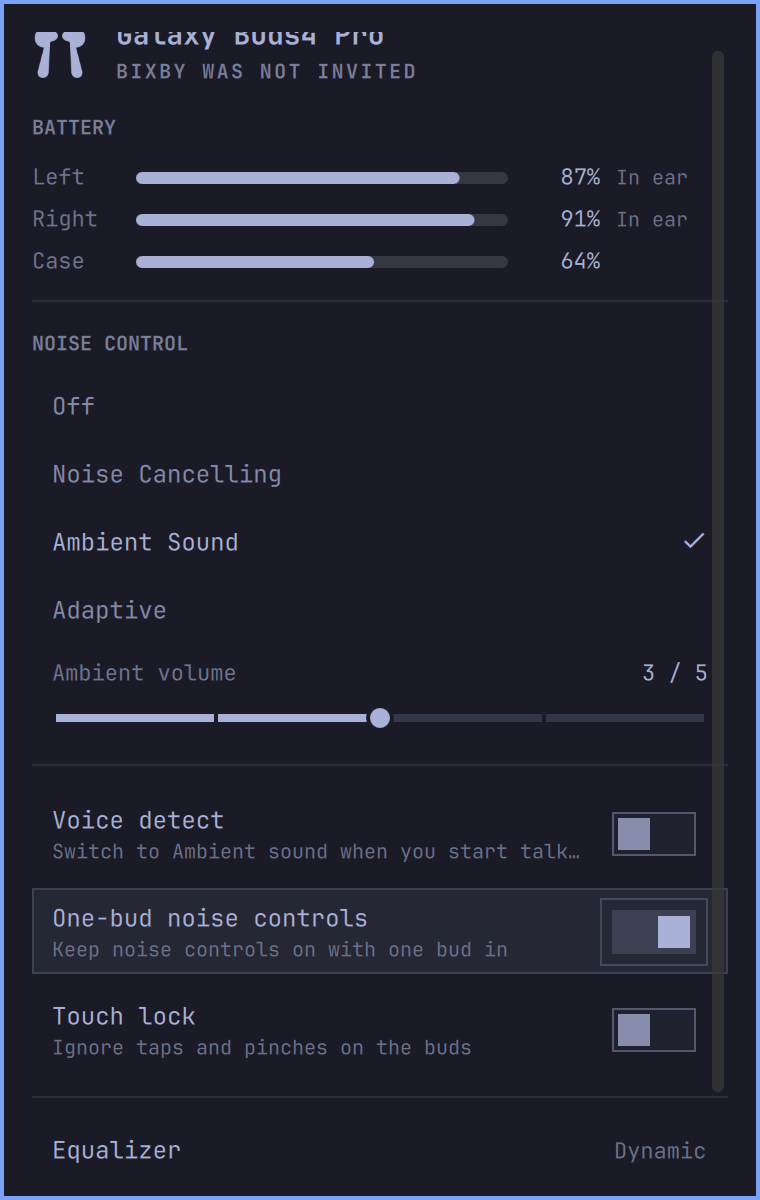
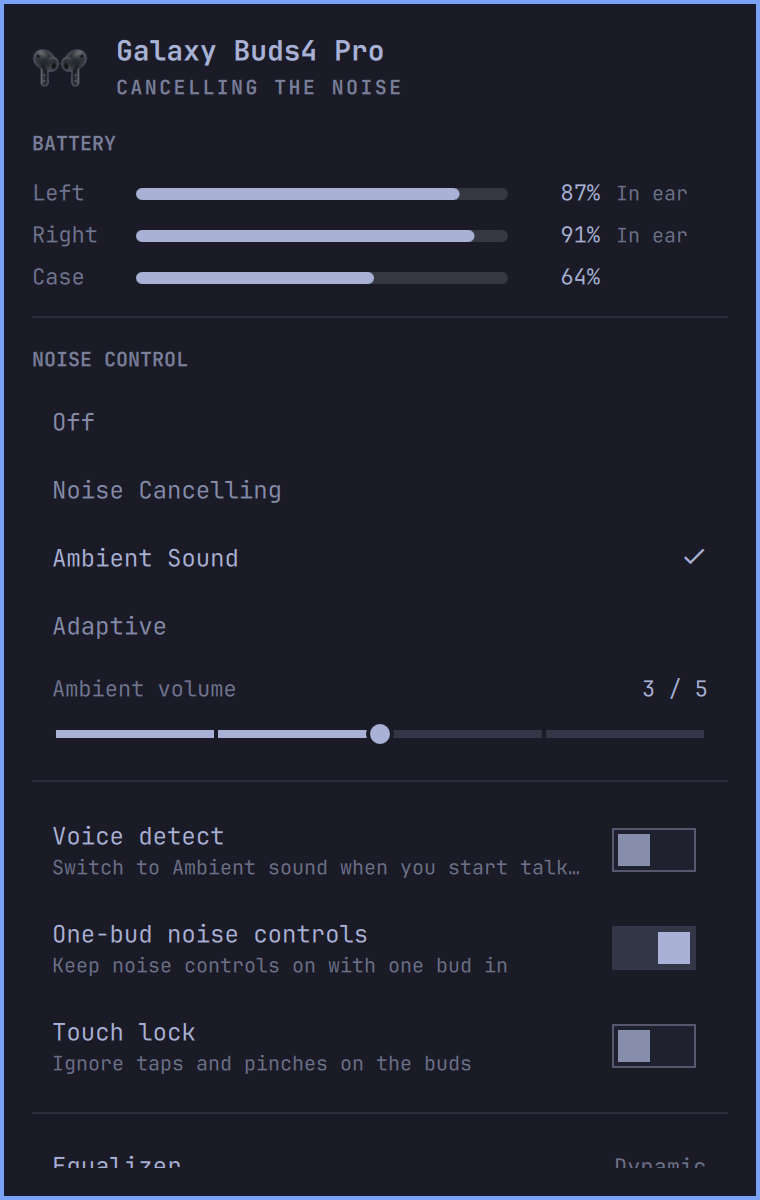
Recapture README screenshots with the Buds4 Pro cut-out
The panel, bar and marketplace preview still showed the old drawn lozenges.
Switch the bar mark to the product cut-out and recapture all three against a
neutral Galaxy Buds4 Pro status so the README matches the running plugin.

diff --git a/BudsIcon.qml b/BudsIcon.qml
@@ -1,11 +1,9 @@
 import QtQuick
-import QtQuick.Shapes
 import qs.Commons
 
-// Galaxy Buds4 Pro, traced down to the features which survive at bar size: the
-// broad offset ear body and tip, the straight blade and its circular grille.
-// The grille is knocked out of the silhouette instead of drawn in a second
-// colour, so the mark works on every Omarchy theme.
+// Samsung's black Buds4 Pro product artwork, cut out onto transparency with a
+// fine shell-coloured keyline. Keep the pair together even at bar size: this
+// plugin represents the device, not an individual left or right bud.
 Item {
   id: root
 
@@ -15,41 +13,13 @@ Item {
   implicitWidth: iconSize
   implicitHeight: iconSize
 
-  readonly property real artWidth: 40
-  readonly property real artHeight: 32
-  readonly property real fit: iconSize / Math.max(artWidth, artHeight)
-
-  Shape {
-    width: root.artWidth
-    height: root.artHeight
-    scale: root.fit
-    transformOrigin: Item.TopLeft
-    x: (root.iconSize - root.artWidth * root.fit) / 2
-    y: (root.iconSize - root.artHeight * root.fit) / 2
-    preferredRendererType: Shape.CurveRenderer
-
-    layer.enabled: true
-    layer.smooth: true
-    layer.textureSize: Qt.size(root.iconSize * 3, root.iconSize * 3)
-
-    // The outer lobes are the silicone tips seen behind each housing. Compared
-    // with the old icon, the blades are shorter and the bodies much wider.
-    ShapePath {
-      fillColor: root.color
-      strokeWidth: -1
-      fillRule: ShapePath.OddEvenFill
-      PathSvg {
-        path: "M 12.3 1.2 C 16.5 1.2 19.2 4.1 19.2 8.1 C 19.2 11.8 16.8 14.6 13.9 15.8 L 13.9 27.1 C 13.9 29.7 12.4 31.1 10.3 31.1 C 8.2 31.1 6.8 29.6 6.8 27.1 L 6.8 16.4 C 4.2 17.4 1.7 15.8 0.8 13.2 C -0.1 10.6 1.1 7.9 3.5 6.6 C 4.8 3.3 8.1 1.2 12.3 1.2 Z M 10.3 4.0 A 2.3 2.3 0 1 0 10.3 8.6 A 2.3 2.3 0 1 0 10.3 4.0 Z"
-      }
-    }
-
-    ShapePath {
-      fillColor: root.color
-      strokeWidth: -1
-      fillRule: ShapePath.OddEvenFill
-      PathSvg {
-        path: "M 27.7 1.2 C 23.5 1.2 20.8 4.1 20.8 8.1 C 20.8 11.8 23.2 14.6 26.1 15.8 L 26.1 27.1 C 26.1 29.7 27.6 31.1 29.7 31.1 C 31.8 31.1 33.2 29.6 33.2 27.1 L 33.2 16.4 C 35.8 17.4 38.3 15.8 39.2 13.2 C 40.1 10.6 38.9 7.9 36.5 6.6 C 35.2 3.3 31.9 1.2 27.7 1.2 Z M 29.7 4.0 A 2.3 2.3 0 1 0 29.7 8.6 A 2.3 2.3 0 1 0 29.7 4.0 Z"
-      }
-    }
+  Image {
+    anchors.fill: parent
+    source: "assets/buds4-pro-black-flat.png"
+    fillMode: Image.PreserveAspectFit
+    smooth: true
+    mipmap: true
+    asynchronous: false
+    cache: true
   }
 }

diff --git a/README.md b/README.md
@@ -11,7 +11,7 @@
 
 <p align="center">
   <img src="docs/bar.png" alt="The Galaxy Buds icon in the Omarchy bar, next to the clock and weather" width="478">
-  <br><sub>The bar mark is drawn, so it does not depend on what the theme font happens to carry.</sub>
+  <br><sub>The bar mark is a cut-out of the Buds4 Pro.</sub>
 </p>
 
 ## What it shows
